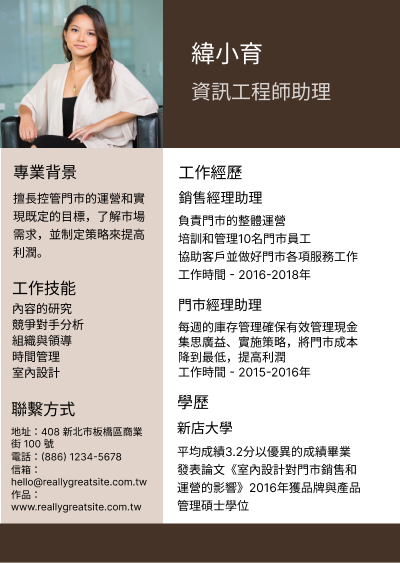
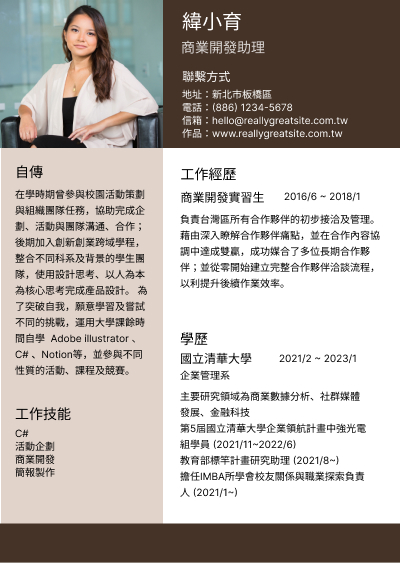
update 履歷修改資料排版 bye lin

Changed region(s): [[0.42, 0.2718, 0.96, 0.9059], [0.03, 0.2718, 0.36, 0.9059], [0.45, 0.0, 0.87, 0.2416]]

diff --git a/resume_work_space.html b/resume_work_space.html
@@ -65,55 +65,79 @@
                     <div class="work_space_a4">
 
                         <div class="work_space_a4_1">
-                            <h3 title="編輯">緯小育</h3>
-                            <h4 title="編輯">業務經理</h4>
+                            <h3 title="姓名">緯小育</h3>
+                            <h4 title="職務">商業開發助理</h4>
                             <h5>聯絡方式</h5>
-                            <p title="編輯">地址：408 新北市板橋區商業街 100 號</p>
-                            <p title="編輯">電話：(886) 1234-5678</p>
-                            <p title="編輯">信箱：hello@reallygreatsite.com.tw</p>
-                            <p title="編輯">作品：www.reallygreatsite.com.tw</p>
+                            <p class="p1">地址：<span class="span1">新北市板橋區</span></p>
+                            <p class="p2">電話：<span class="span2">(886) 1234-5678</span></p>
+                            <p class="p3">信箱：<span class="span3">hello@reallygreatsite.com.tw</span></p>
+                            <p class="p4">作品：<span class="span4">www.reallygreatsite.com.tw</span></p>
                         </div>
 
-                        <div  title="上傳圖片" class="work_space_a4_2">
+                        <div title="上傳圖片" class="work_space_a4_2">
                             <button><i class="fa-solid fa-file-circle-plus"></i></button>
                         </div>
 
                         <div class="work_space_a4_3">
 
                             <div class="work_space_a4_3_1">
-                                <h4>專業背景</h4>
-                                <p title="編輯">擅長控管門市的運營和實現既定的目標，了解市場需求，並制定策略來提高利潤。</p>
+                                <h4>學歷</h4>
+                                <h5>國立清華大學</h5>
+                                <h6>2021/2 ~ 2023/1</h6>
+                                <h6>企業管理系</h6>
+                                <ul>
+                                    <li>主要研究領域為商業數據分析、社群媒體發展、金融科技</li>
+                                    <li>第5屆國立清華大學企業領航計畫中強光電組學員 (2021/11~2022/6)</li>
+                                    <li>教育部標竿計畫研究助理 (2021/8~)</li>
+                                    <li>擔任IMBA所學會校友關係與職業探索負責人 (2021/1~)</li>
+                                </ul>
                             </div>
 
                             <div class="work_space_a4_3_2">
-                                <h4>工作技能</h4>
-                                <p title="編輯">觀眾參與內容的研究競爭對手分析組織與領導</p>
+                                <h4>自傳</h4>
+                                <p>在學時期曾參與校園活動策劃與組織團隊任務，協助完成企劃、活動與團隊溝通、合作；後期加入創新創業跨域學程，整合不同科系及背景的學生團隊，使用設計思考、以人為本為核心思考完成產品設計。
+                                    為了突破自我，願意學習及嘗試不同的挑戰，運用大學課餘時間自學  Adobe illustrator 、C# 、Notion等，並參與不同性質的活動、課程及競賽。</p>
                             </div>
 
                             <div class="work_space_a4_3_3">
-                                <h4>學習經歷</h4>
-                                <p title="編輯">新店大學平均成績3.2分以優異的成績畢業發表論文《室內設計對門市銷售和運營的影響》2016年獲品牌與產品管理碩士學位</p>
+                                <h4>工作技能</h4>
+                                <ul>
+                                    <li>C#</li>
+                                    <li>活動企劃</li>
+                                    <li>商業開發</li>
+                                    <li>簡報製作</li>
+                                </ul>
+                                
                             </div>
 
                             <div class="work_space_a4_3_4">
                                 <h4>工作經歷</h4>
-                                <p title="編輯">門市及銷售經理負責門市的整體運營培訓和管理10名門市員工協助客戶並做好門市各項服務工作工作時間 - 2016-2018年</p>
+                                <h5>商業開發實習生</h5>
+                                <h6>2016/6-2018/1</h6>
+                                <p>負責台灣區所有合作夥伴的初步接洽及管理。
+                                    藉由深入瞭解合作夥伴痛點，並在合作內容協調中達成雙贏，成功媒合了多位長期合作夥伴；並從零開始建立完整合作夥伴洽談流程，以利提升後續作業效率。</p>
                             </div>
 
-                            <div class="work_space_a4_3_5">
+                            <!-- <div class="work_space_a4_3_5">
                                 <h4>新店高中</h4>
-                                <p title="編輯">新店大學平均成績3.2分以優異的成績畢業發表論文《室內設計對門市銷售和運營的影響》2016年獲品牌與產品管理碩士學位</p>
-                            </div>
+                                <p>新店大學平均成績3.2分以優異的成績畢業發表論文《室內設計對門市銷售和運營的影響》2016年獲品牌與產品管理碩士學位</p>
+                            </div> -->
 
-                            <div class="work_space_a4_3_6">
-
+                            <!-- <div class="work_space_a4_3_6">
                                 <h4>專業背景</h4>
-                                <p title="編輯">每週的庫存管理確保有效管理現金集思廣益、實施策略，將門市成本降到最低，提高利潤工作時間 - 2015-2016年</p>
-                            </div>
+                                <p>每週的庫存管理確保有效管理現金集思廣益、實施策略，將門市成本降到最低，提高利潤工作時間 - 2015-2016年</p>
+                            </div> -->
 
                         </div>
                     </div>
                 </div>
+
+                <template>
+                    <div>
+                      <button @click="setEditorContent">Set Editor Content</button>
+                      <vue-editor v-model="content" />
+                    </div>
+                  </template>
             </div>
         </div>
     </div>

diff --git a/sass/page/_resume_work_space.scss b/sass/page/_resume_work_space.scss
@@ -1,3 +1,6 @@
+
+$editOutline : 2px solid black;
+
 .work_space{
     width: 100%;
     height: 870px;
@@ -149,52 +152,86 @@
                 flex-wrap: wrap;
                 margin: 0 auto;
                 margin-top: 20px;
-                width: 484px;
+                width: 470px;
                 height: 670px;
                 background-color: #FDEDE9;
                 line-height: 1.6;
+                padding: 25px;
                 @include m(){
-                    width: 373px;
-                    
+                    width: 400px;
+                    padding: 15px;
+                    line-height: 1.5;
+                    height: 645px;
                 }
         
                 .work_space_a4_1{
-                    padding: 24px 0 0 37px;
+                    // padding: 15px 0 0 25px;
                     @include m(){
-                        padding: 0;
-                        margin: 20px 5px 0 15px;
+                        // padding: 0;
+                        // margin: 20px 5px 0 15px;
                     }
                     h3{
                         font-size: 20px;
+                        &:hover{
+                            outline: $editOutline;
+                            cursor: pointer;
+                        }
+                        @include m(){
+                            font-size: 16px;
+                        }
                     }
                     h4{
-                        font-size: 18px;
-                        margin-top: 5px;
+                        font-size: 16px;
+                        margin-top: 6px;
+                        &:hover{
+                            outline: $editOutline;
+                            cursor: pointer;
+                        }
+                        @include m(){
+                            font-size: 14px;
+                            margin-top: 4px;
+                        }
                     }
                     h5{
-                        margin-top: 14px;
+                        margin-top: 10px;
                         margin-bottom: 5px;
                         font-size: 14px;
+                        font-weight: bold;
+                        @include m(){
+                            font-size: 12px;
+                            margin-top: 5px;
+                        }
                     }
                     p{
                         font-size: 12px;
-                        // margin-top: 15px;
+                        line-height: 1.3;
+                        
                     }
+                    span{
+                        &:hover{
+                            outline: $editOutline;
+                            cursor: pointer;
+                        }
+                    }
+                    
                 }
         
                 .work_space_a4_2{
-                    margin: 24px 0 0 49px;
-                    width: 160px;
-                    height: 160px;
+                    margin-left: 85px;
+                    width: 145px;
+                    height: 145px;
                     background-color: #ffff;
+                    &:hover{
+                        outline: $editOutline;
+                    }
                     @include m(){
-                        width: 120px;
-                        height: 120px;
-                        margin: 45px 10px 0;
+                        width: 125px;
+                        height: 125px;
+                        margin-left: 52px;
                     }
                     button{
                         background-color: rgba(1,1,1,0);
-                        margin: 43%;
+                        margin: 40%;
                         .fa-file-circle-plus{
                             align-items: center;
                             margin: 0 auto;
@@ -204,25 +241,72 @@
                 }
         
                 .work_space_a4_3{
-                    margin: 0 auto;
-                    width: 416px;
-                    height: 450px;
+                    margin: 20px auto 0 auto;
+                    width: 421px;
+                    height: 456px;
                     background-color: #ffff;
                     display: grid;
                     grid-template-columns: 1fr 1fr;
                     grid-template-rows: 1fr 1fr 1fr;
-                    gap: 20px ;
+                    gap: 15px;
                     padding: 10px;
                     @include m(){
-                        width: 350px;
-                        margin: 0px 10px 0;
+                        width: 367px;
+                        height: 475px;
+                        margin-top: 5px;
+                        gap: 4px;
+                    }
+                    .work_space_a4_3_3{
+                        margin-top: 10px;
+                    }
+                    .work_space_a4_3_4{
+                        margin-top: 10px;
                     }
                 
                     h4{
                         font-size: 18px;
+                        margin-bottom: 5px;
+                        font-weight: bold;
+                        @include m(){
+                            font-size: 16px;
+                        }
                     }
-                    p{
+                    h5{
+                        
+                        &:hover{
+                            outline: $editOutline;
+                            cursor: pointer;
+                        }
+                        @include m(){
+                            font-size: 14px;
+                        }
+                    }
+                    h6{
+                        font-size: 14px;
+                        margin: 5px 0;
+                        &:hover{
+                            outline: $editOutline;
+                            cursor: pointer;
+                        }
+                        @include m(){
+                            font-size: 12px;
+                        }
+                    }
+                    span{
+                        font-size: 14px;
+                        margin-right: 5px;
+                        &:hover{
+                            outline: $editOutline;
+                            cursor: pointer;
+                        }
+                    }
+                    li,p{
                         font-size: 12px;
+                        &:hover{
+                            outline: $editOutline;
+                            cursor: pointer;
+                        }
+                        
                     }
                    
                 }
